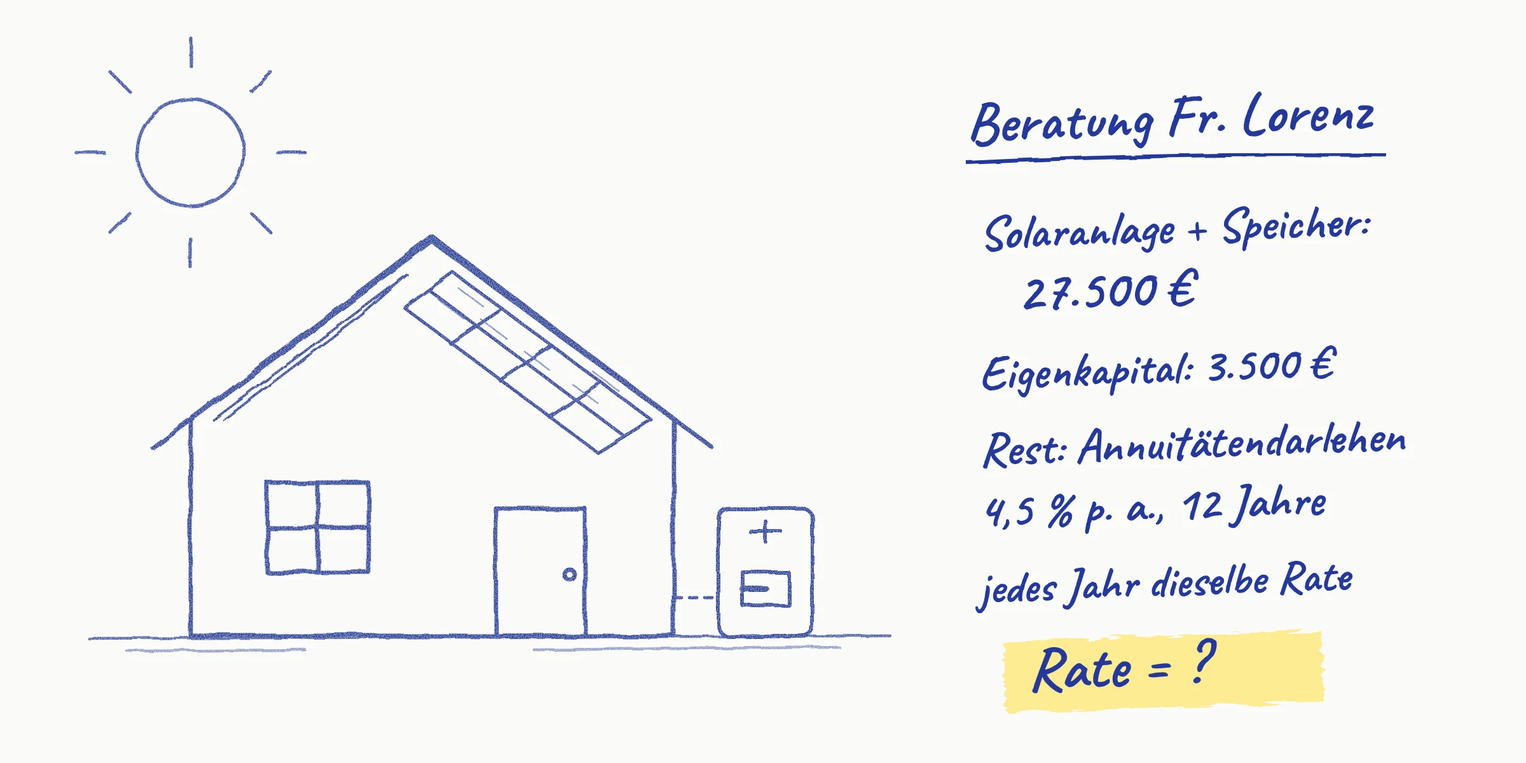
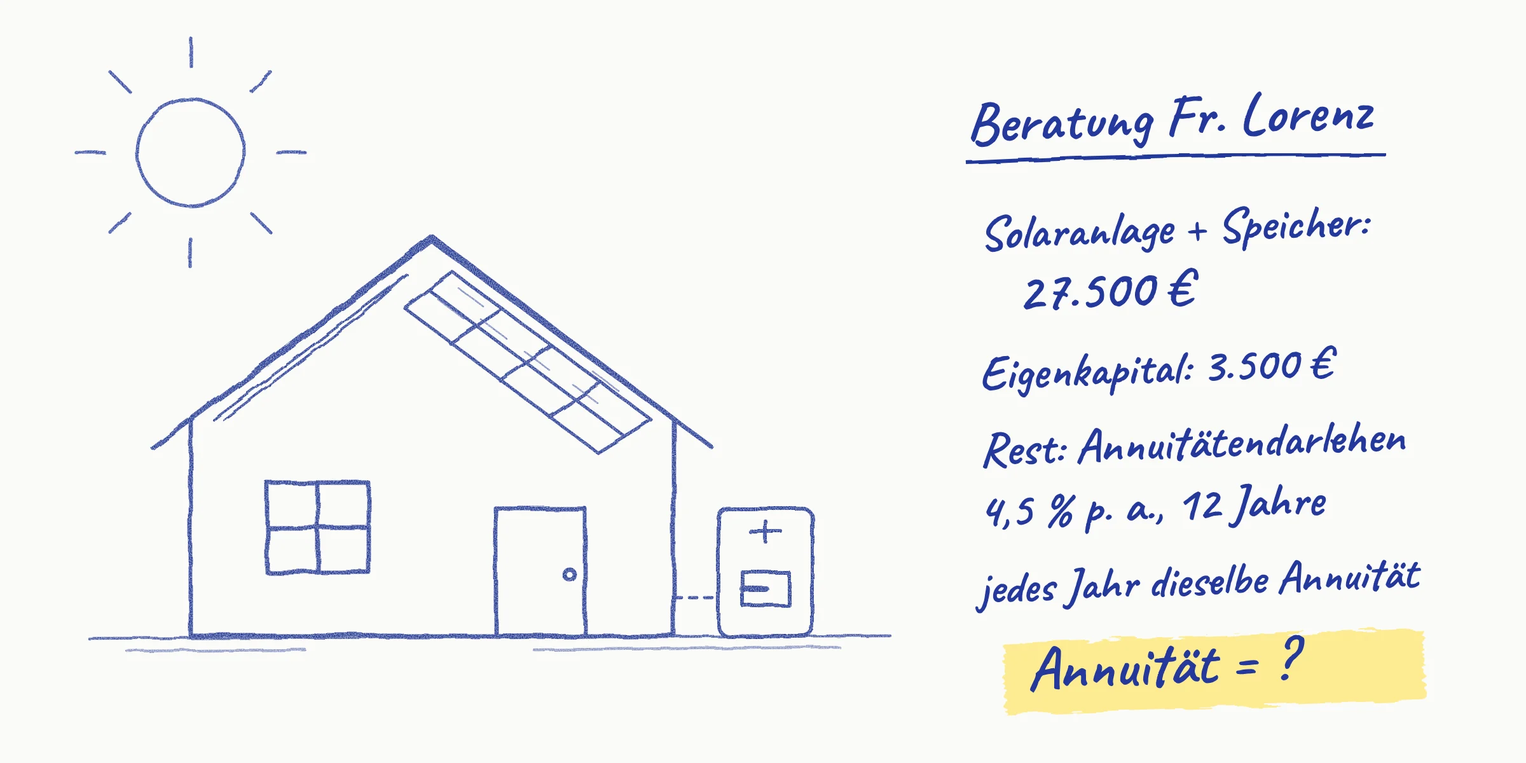
Solaranlage: Annuität statt Rate, Taschenrechner ohne gerundete Zwischenwerte
- Überall Annuität (Zinsen + Tilgung) statt Rate/Jahresrate, auch im Titelbild
- Warm-up d) und e): Terme in einem Zug eintippen, nur das Ergebnis runden
- Beispielrechnung: Hinweis, die Potenz nicht zu runden
- Skill: beide Regeln als Schreib- und Rechenkonvention festgehalten

Claude-Session: https://claude.ai/code/session_01Aw7YPBHYM1ggYfimyLqB6H

Changed region(s): [[0.6562, 0.8017, 0.9375, 0.9558], [0.8438, 0.74, 0.9375, 0.7708]]

diff --git a/mathe-trainer/src/pages/finanzmathe/annuitaetendarlehen_einstieg/SolaranlageEinstieg.tsx b/mathe-trainer/src/pages/finanzmathe/annuitaetendarlehen_einstieg/SolaranlageEinstieg.tsx
@@ -43,13 +43,15 @@ import './solaranlage.css'
 // T₂, T₃ … verwenden (statt T_v = T₁ · q^(v−1)), Zinsen nicht über die Schuld am Jahresanfang bzw. über Z = A − T bestimmen können.
 // Problem erkennen: Festlegung (Tilgt Frau Lorenz im 2. Jahr gleich viel, weniger oder mehr?), dann im Darlehensrechner der Bank zuerst den
 // Darlehensbetrag, dann Jahresraten ausprobieren (Live-Diagramm der Restschuld). Der Nachbar rechnet wie beim Ratendarlehen
-// 24.000 : 12 + 1.080 = 3.080 €: Damit wäre das Darlehen schon im 10. Jahr abbezahlt. Raten trifft die Annuität nicht auf den Cent.
+// 24.000 : 12 + 1.080 = 3.080 €: Damit wäre das Darlehen schon im 10. Jahr abbezahlt. Probieren trifft die Annuität nicht auf den Cent.
 // Problem lösen in zwei Teilen: Teil 1 die 1. Zeile (K₀, A, T₁, Z₁), Teil 2 die 2. Zeile (Schuld, T₂ = T₁ · q, Z₂ auf zwei Wegen, A),
 // je Beispielrechnung (Wärmepumpe von Herrn Brandt, 18.000 €, 4 %, 10 Jahre) mit Lernvideo → Ergebnisse im Tilgungsplan abgleichen.
-// Aha: Die Rate bleibt gleich, die Tilgung steigt (1.551,99 € → 1.621,83 €), weil die Zinsen sinken. Mit der T₁-Formel käme 1.451,63 € heraus.
+// Aha: Die Annuität bleibt gleich, die Tilgung steigt (1.551,99 € → 1.621,83 €), weil die Zinsen sinken. Mit der T₁-Formel käme 1.451,63 € heraus.
 // Lernprodukt analog: Beratungsblatt für Frau Lorenz (K₀, Tilgungsplan für 2 Jahre, Formeln, Antwort).
 // Phase 4: Annuität eines Autokredits (K₀ erkennen), Wer hat recht? (T₁-Formel für T₂), Zinsen auf zwei Wegen (Lückenrechnung),
 // 5. Jahr für Frau Lorenz (T₅ = T₁ · q⁴), Profi Zinsen insgesamt. Bonus-Spiel „Schuldenberg“.
+// Begriffe: Annuität = jährliche Zahlung aus Zinsen + Tilgung (nie „Rate“ dafür, Rate bzw. Tilgungsrate meint nur die Tilgung).
+// Taschenrechner: Potenzen und Brüche werden in einem Zug eingetippt, gerundet wird nur das Endergebnis (keine gerundeten Zwischenwerte wie q^n).
 // Punkte nach Aufwand: Warm-up 2/3/4/2/3 = 14, Festlegung 3, Ausprobieren 3, Teil 1: 12, Teil 2: 12, Antwort 3, Beratungsblatt 5,
 // Übungen 4/5/6/8, Profi 9. Pflicht zusammen 75: Warm-up 14 = 19 %, Problem lösen 32 = 43 %, Übungen 23 = 31 %;
 // Bonus-Spiel 4 Runden à 2 = 8 wie die beste Übung.
@@ -67,7 +69,7 @@ const THEMA: Thema = {
       src={titelBild}
       width={1200}
       height={600}
-      alt="Kugelschreiber-Skizze eines Hauses mit Solaranlage auf dem Dach und einem Stromspeicher. Daneben Notizen aus der Beratung von Frau Lorenz: Solaranlage und Speicher 27.500 €, Eigenkapital 3.500 €, Rest als Annuitätendarlehen mit 4,5 % p. a. und 12 Jahren, jedes Jahr dieselbe Rate. Mit Textmarker: Rate = ?"
+      alt="Kugelschreiber-Skizze eines Hauses mit Solaranlage auf dem Dach und einem Stromspeicher. Daneben Notizen aus der Beratung von Frau Lorenz: Solaranlage und Speicher 27.500 €, Eigenkapital 3.500 €, Rest als Annuitätendarlehen mit 4,5 % p. a. und 12 Jahren, jedes Jahr dieselbe Annuität. Mit Textmarker: Annuität = ?"
     />
   ),
 }
@@ -256,7 +258,7 @@ function TilgungsplanCheck({
 
 type Wahl = 'gleich' | 'weniger' | 'mehr'
 const WAHL: Record<Wahl, string> = {
-  gleich: 'Genauso viel wie im 1. Jahr. Die Rate ist ja jedes Jahr gleich.',
+  gleich: 'Genauso viel wie im 1. Jahr. Die Annuität ist ja jedes Jahr gleich.',
   weniger: 'Weniger als im 1. Jahr.',
   mehr: 'Mehr als im 1. Jahr.',
 }
@@ -275,7 +277,7 @@ function Festlegung({ wahl, fest, onWahl, onFest }: { wahl: Wahl | null; fest: b
   return (
     <div className="sa-wahl" data-no-autocheck>
       <p className="sl-text">
-        Frau Lorenz zahlt jedes Jahr dieselbe Rate. Wie viel tilgt sie im 2. Jahr, verglichen mit dem 1. Jahr?
+        Frau Lorenz zahlt jedes Jahr dieselbe Annuität, also denselben Betrag aus Zinsen und Tilgung. Wie viel tilgt sie im 2. Jahr, verglichen mit dem 1. Jahr?
       </p>
       <div className="ls-options" role="radiogroup" aria-label="Deine Vermutung">
         {(Object.keys(WAHL) as Wahl[]).map((w) => (
@@ -302,12 +304,12 @@ function Festlegung({ wahl, fest, onWahl, onFest }: { wahl: Wahl | null; fest: b
   )
 }
 
-/** Schuld am Ende jedes Jahres bei einer jährlichen Rate (Schuld · q − Rate) */
-const verlauf = (rate: number) => {
+/** Schuld am Ende jedes Jahres bei einer Annuität (Schuld · q − Annuität) */
+const verlauf = (annuitaet: number) => {
   const werte = [K0]
   let k = K0
   for (let v = 1; v <= N; v++) {
-    k = k * Q - rate
+    k = k * Q - annuitaet
     werte.push(k)
   }
   return werte
@@ -330,8 +332,8 @@ function SchuldDiagramm({ raten }: { raten: number[] }) {
         role="img"
         aria-label={
           werte && rest !== null
-            ? `Schuld am Ende jedes Jahres bei einer Rate von ${euro(aktuell)}: Start 24.000 €, nach 12 Jahren ${rest > 0 ? `noch ${euro(rest)}` : 'nichts mehr'}.`
-            : 'Diagramm der Schuld über 12 Jahre, noch ohne Rate. Start: 24.000 €.'
+            ? `Schuld am Ende jedes Jahres bei einer Annuität von ${euro(aktuell)}: Start 24.000 €, nach 12 Jahren ${rest > 0 ? `noch ${euro(rest)}` : 'nichts mehr'}.`
+            : 'Diagramm der Schuld über 12 Jahre, noch ohne Annuität. Start: 24.000 €.'
         }
       >
         {[0, 5000, 10000, 15000, 20000, 25000].map((k) => (
@@ -427,8 +429,8 @@ function Darlehensrechner({ frei, onFertig }: { frei: boolean; onFertig: () => v
 
   const senden = () => {
     const p = parseInput(eingabe)
-    if (!p) return setMeldung('Gib eine Rate in Euro ein, z. B. 2500.')
-    if (p.value < 500 || p.value > 10000) return setMeldung('Probiere eine Rate zwischen 500 € und 10.000 €.')
+    if (!p) return setMeldung('Gib eine Annuität in Euro ein, z. B. 2500.')
+    if (p.value < 500 || p.value > 10000) return setMeldung('Probiere eine Annuität zwischen 500 € und 10.000 €.')
     setMeldung(null)
     setRaten((r) => [...r, p.value])
   }
@@ -483,12 +485,12 @@ function Darlehensrechner({ frei, onFertig }: { frei: boolean; onFertig: () => v
           {kOk && (
             <>
               <p className="sl-text">
-                Richtig: Die Bank leiht Frau Lorenz <strong>24.000 €</strong>. Jetzt probierst du Jahresraten aus. Der Rechner zeigt dir, wie viel Schuld am Ende
+                Richtig: Die Bank leiht Frau Lorenz <strong>24.000 €</strong>. Jetzt probierst du verschiedene Annuitäten aus. Der Rechner zeigt dir, wie viel Schuld am Ende
                 jedes Jahres übrig bleibt. Nach 12 Jahren soll die Schuld genau 0 € sein.
               </p>
               <SchuldDiagramm raten={raten} />
               <div className="sa-eingabe">
-                <label htmlFor={`${uid}-r`}>Jährliche Rate:</label>
+                <label htmlFor={`${uid}-r`}>Annuität pro Jahr:</label>
                 <span className="sa-eingabe-feld">
                   <input
                     id={`${uid}-r`}
@@ -518,14 +520,14 @@ function Darlehensrechner({ frei, onFertig }: { frei: boolean; onFertig: () => v
                 <div className={`sa-anzeige${Math.abs(rest) <= 5 ? ' sa-anzeige-ok' : ''}`} role="status">
                   <i className="fa-solid fa-calculator" aria-hidden="true" />
                   <span>
-                    <strong>Versuch {raten.length}:</strong> Rate {euro(letzte)}.{' '}
+                    <strong>Versuch {raten.length}:</strong> Annuität {euro(letzte)}.{' '}
                     {Math.abs(rest) <= 5
                       ? `Sehr nah dran! Nach 12 Jahren bleibt fast nichts übrig (${rest >= 0 ? `${euro(rest)} Rest` : `${euro(-rest)} zu viel bezahlt`}).`
                       : letzte <= Z1
-                        ? 'Die Rate reicht nicht einmal für die Zinsen des 1. Jahres. Die Schuld wird jedes Jahr größer.'
+                        ? 'Diese Annuität reicht nicht einmal für die Zinsen des 1. Jahres. Es bleibt nichts für die Tilgung, die Schuld wird jedes Jahr größer.'
                         : rest > 0
-                          ? `Nach 12 Jahren hat Frau Lorenz noch ${euro(rest)} Schulden. Die Rate ist zu niedrig.`
-                          : `Schon im ${fertigJahr}. Jahr ist alles abbezahlt. Mit dieser Rate zahlt Frau Lorenz mehr als nötig.`}
+                          ? `Nach 12 Jahren hat Frau Lorenz noch ${euro(rest)} Schulden. Die Annuität ist zu niedrig.`
+                          : `Schon im ${fertigJahr}. Jahr ist alles abbezahlt. Mit dieser Annuität zahlt Frau Lorenz mehr als nötig.`}
                   </span>
                 </div>
               )}
@@ -547,7 +549,7 @@ function Erkenntnis() {
   return (
     <p className="sl-text sa-erkenntnis" role="status">
       <strong>Schon gemerkt?</strong> Mit der Rechnung des Nachbarn (<M>{'24\\,000 : 12 + 1\\,080 = 3\\,080'}</M> €) wäre Frau Lorenz schon im 10. Jahr fertig: Sie
-      würde zu viel bezahlen. So rechnet man beim Ratendarlehen, bei dem die Raten jedes Jahr kleiner werden. Durch Probieren kommst du der richtigen Rate zwar näher,
+      würde zu viel bezahlen. So rechnet man beim Ratendarlehen, bei dem die Tilgung jedes Jahr gleich bleibt und die Annuität sinkt. Durch Probieren kommst du der richtigen Annuität zwar näher,
       aber auf den Cent genau triffst du sie kaum. Auf der nächsten Seite lernst du die Formeln, mit denen die Bank die Annuität, die Tilgung und die Zinsen berechnet.
     </p>
   )
@@ -592,11 +594,11 @@ const BSP1_SCHRITTE: { title: ReactNode; body: ReactNode }[] = [
     title: <>Die Annuität <M>A</M> mit der Formel aus der Merkhilfe</>,
     body: (
       <>
-        <p>Die Annuität ist die Jahresrate. Sie ist in allen 10 Jahren gleich hoch.</p>
+        <p>Die Annuität ist der Betrag, den Herr Brandt jedes Jahr an die Bank zahlt: Zinsen plus Tilgung. Sie ist in allen 10 Jahren gleich hoch.</p>
         <MB>{'A = K_0 \\cdot \\dfrac{q^n \\cdot (q - 1)}{q^n - 1}'}</MB>
         <MB>{'A = 18\\,000 \\cdot \\dfrac{1{,}04^{10} \\cdot (1{,}04 - 1)}{1{,}04^{10} - 1}'}</MB>
         <MB>{'A = 2\\,219{,}24 \\text{ €}'}</MB>
-        <p>Tipp für den Taschenrechner: Zähler und Nenner jeweils in Klammern eingeben.</p>
+        <p>Tipp für den Taschenrechner: Zähler und Nenner jeweils in Klammern eingeben und alles in einem Zug rechnen. Runde nur das Ergebnis auf Cent, nie die Potenz.</p>
       </>
     ),
   },
@@ -783,7 +785,7 @@ export default function SolaranlageEinstieg({ onBack, onPractice }: { onBack: ()
             prompt={
               <p>
                 Bei einem Ratendarlehen ist die Schuld am Anfang des Jahres 20.000 €. In diesem Jahr werden 2.500 € getilgt, der Zinssatz beträgt 4 % p.a. Berechne
-                die Zinsen, die Jahresrate (Annuität) und die Schuld am Anfang des nächsten Jahres.
+                die Zinsen, die Annuität (Zinsen + Tilgung) und die Schuld am Anfang des nächsten Jahres.
               </p>
             }
             rechnung={[
@@ -808,7 +810,7 @@ export default function SolaranlageEinstieg({ onBack, onPractice }: { onBack: ()
             help={
               <Hilfen
                 steps={[
-                  <>Eine Jahresrate besteht aus zwei Teilen: Zinsen und Tilgung.</>,
+                  <>Die Annuität besteht aus zwei Teilen: Zinsen und Tilgung.</>,
                   <>Die Zinsen rechnest du für die Schuld am Jahresanfang. Von der Schuld ziehst du nur die Tilgung ab, nicht die Zinsen.</>,
                   <>
                     <M>{'Z = 20\\,000 \\cdot 0{,}04'}</M>, dann <M>{'A = 2\\,500 + Z'}</M>.
@@ -820,25 +822,19 @@ export default function SolaranlageEinstieg({ onBack, onPractice }: { onBack: ()
           <CheckCard
             onSolved={fertig.teil('d')}
             punkte={2}
-            title="d) Potenz mit dem Taschenrechner"
-            prompt={<p>Berechne mit dem Taschenrechner und runde auf 4 Nachkommastellen.</p>}
-            rechnung={[
-              { l: ['1{,}045^{12}'], r: [{ luecke: 'p1' }] },
-              { l: ['1{,}04^{10}'], r: [{ luecke: 'p2' }] },
-            ]}
-            fields={[
-              { kind: 'num', key: 'p1', label: '1,045 hoch 12', expected: 1.045 ** 12, tol: 0.0001 },
-              { kind: 'num', key: 'p2', label: '1,04 hoch 10', expected: 1.04 ** 10, tol: 0.0001 },
-            ]}
+            title="d) Potenz in einem Zug"
+            prompt={
+              <p>
+                10.000 € liegen 5 Jahre lang zu 3 % p.a. auf einem Konto, die Zinsen werden mitverzinst. Berechne den Kontostand mit dem Taschenrechner in einem Zug.
+                Runde nur das Ergebnis auf Cent.
+              </p>
+            }
+            rechnung={[{ l: ['K_5 = 10\\,000 \\cdot 1{,}03^5'], r: [{ luecke: 'k5', breit: true }] }]}
+            fields={[{ kind: 'num', key: 'k5', label: 'Kontostand nach 5 Jahren in Euro', expected: 10000 * 1.03 ** 5, tol: 0.01 }]}
             solution={
               <>
-                <Loesungsweg
-                  schritte={[
-                    { titel: 'Erste Potenz', tex: '1{,}045^{12} \\approx 1{,}6959' },
-                    { titel: 'Zweite Potenz', tex: '1{,}04^{10} \\approx 1{,}4802' },
-                  ]}
-                />
-                <p>Am Taschenrechner: Basis eingeben, dann die Potenztaste (z. B. ^ oder xʸ), dann den Exponenten.</p>
+                <Loesungsweg schritte={[{ titel: 'In einem Zug eintippen', tex: 'K_5 = 10\\,000 \\cdot 1{,}03^5 = 11\\,592{,}74 \\text{ €}' }]} />
+                <p>Am Taschenrechner: 10000 × 1,03, dann die Potenztaste (z. B. ^ oder xʸ) und 5. Nicht zuerst die Potenz runden, sonst entstehen Rundungsfehler.</p>
               </>
             }
           />
@@ -846,20 +842,29 @@ export default function SolaranlageEinstieg({ onBack, onPractice }: { onBack: ()
             onSolved={fertig.teil('e')}
             punkte={3}
             title="e) Bruch mit Klammern"
-            prompt={<p>Berechne mit dem Taschenrechner. Achte darauf, Zähler und Nenner jeweils in Klammern einzugeben.</p>}
+            prompt={
+              <p>
+                Berechne mit dem Taschenrechner in einem Zug. Setze Zähler und Nenner jeweils in Klammern und runde nur das Ergebnis (beim ersten Bruch ist es glatt,
+                beim zweiten auf Cent).
+              </p>
+            }
             rechnung={[
               { l: ['\\dfrac{1{,}2 \\cdot 0{,}05}{1{,}2 - 1}'], r: [{ luecke: 'b1' }] },
-              { l: ['\\dfrac{0{,}06}{1{,}5 - 1}'], r: [{ luecke: 'b2' }] },
+              { l: ['8\\,000 \\cdot \\dfrac{1{,}05^4 \\cdot 0{,}05}{1{,}05^4 - 1}'], r: [{ luecke: 'b2', breit: true }] },
             ]}
             fields={[
               { kind: 'num', key: 'b1', label: 'erster Bruch', expected: 0.3, tol: 0.0001 },
-              { kind: 'num', key: 'b2', label: 'zweiter Bruch', expected: 0.12, tol: 0.0001 },
+              { kind: 'num', key: 'b2', label: 'zweiter Term in Euro', expected: (8000 * 1.05 ** 4 * 0.05) / (1.05 ** 4 - 1), tol: 0.01 },
             ]}
             solution={
               <Loesungsweg
                 schritte={[
                   { titel: 'Erster Bruch: Zähler und Nenner einzeln', tex: ['\\dfrac{1{,}2 \\cdot 0{,}05}{1{,}2 - 1} = \\dfrac{0{,}06}{0{,}2}', '= 0{,}3'] },
-                  { titel: 'Zweiter Bruch', tex: ['\\dfrac{0{,}06}{1{,}5 - 1} = \\dfrac{0{,}06}{0{,}5}', '= 0{,}12'] },
+                  {
+                    titel: 'Zweiter Term in einem Zug',
+                    text: <p>Eingabe zum Beispiel: 8000 × (1,05^4 × 0,05) ÷ (1,05^4 − 1). Die Potenz wird nicht gerundet.</p>,
+                    tex: '8\\,000 \\cdot \\dfrac{1{,}05^4 \\cdot 0{,}05}{1{,}05^4 - 1} = 2\\,256{,}09',
+                  },
                 ]}
               />
             }
@@ -867,9 +872,9 @@ export default function SolaranlageEinstieg({ onBack, onPractice }: { onBack: ()
               <Hilfen
                 steps={[
                   <>Der Bruchstrich wirkt wie eine Klammer um Zähler und Nenner.</>,
-                  <>Rechne zuerst den Zähler aus, dann den Nenner, und teile danach.</>,
+                  <>Tippe den Zähler in Klammern ein, dann ÷, dann den Nenner in Klammern. Runde nichts zwischendurch.</>,
                   <>
-                    <M>{'1{,}2 \\cdot 0{,}05 = 0{,}06'}</M> und <M>{'1{,}2 - 1 = 0{,}2'}</M>, also <M>{'0{,}06 : 0{,}2'}</M>.
+                    Zweiter Term: <M>{'8\\,000 \\cdot (1{,}05^4 \\cdot 0{,}05) : (1{,}05^4 - 1)'}</M>
                   </>,
                 ]}
               />
@@ -880,9 +885,9 @@ export default function SolaranlageEinstieg({ onBack, onPractice }: { onBack: ()
     },
     {
       art: 'problem',
-      titel: 'Wie hoch ist die Rate für die Solaranlage?',
+      titel: 'Wie hoch ist die Annuität für die Solaranlage?',
       pflicht: ['fest', 'rechner'],
-      bedingung: 'Halte deine Vermutung fest und probiere im Darlehensrechner mindestens drei Raten aus.',
+      bedingung: 'Halte deine Vermutung fest und probiere im Darlehensrechner mindestens drei Annuitäten aus.',
       inhalt: (fertig) => (
         <>
           <p className="sl-text">
@@ -891,20 +896,20 @@ export default function SolaranlageEinstieg({ onBack, onPractice }: { onBack: ()
           </p>
           <p className="sl-text">
             Den Rest leiht ihr die Bank als <strong>Annuitätendarlehen</strong> mit <strong>4,5 % p.a.</strong> und einer Laufzeit von <strong>12 Jahren</strong>. Bei
-            einem Annuitätendarlehen zahlt man jedes Jahr dieselbe Rate, die <strong>Annuität</strong>. Sie besteht aus Zinsen und Tilgung. Gesucht ist die Höhe dieser
-            Rate.
+            einem Annuitätendarlehen zahlt man jedes Jahr denselben Betrag an die Bank, die <strong>Annuität</strong>. Sie besteht aus den Zinsen und der Tilgung (dem
+            Teil, der die Schuld verringert). Gesucht ist die Höhe der Annuität.
           </p>
           <Zitat wer="Frau Lorenz">
             <p>
-              „Mein Nachbar sagt: Schuld durch 12 Jahre, dann noch die Zinsen dazu, fertig. Stimmt das? Und tilge ich dann jedes Jahr gleich viel, wenn die Rate immer
-              gleich ist?“
+              „Mein Nachbar sagt: Schuld durch 12 Jahre, dann noch die Zinsen dazu, fertig. Stimmt das? Und tilge ich dann jedes Jahr gleich viel, wenn ich immer
+              denselben Betrag zahle?“
             </p>
           </Zitat>
           <div className="sl-fokus">
             <p className="sl-fokus-titel">Dein Auftrag: Erst vermuten, dann ausprobieren</p>
             <p>
               Lege dich zuerst fest: Tilgt Frau Lorenz im 2. Jahr gleich viel, weniger oder mehr? Probiere danach im Darlehensrechner der Bank aus, ohne Formel: Mit
-              welcher jährlichen Rate ist das Darlehen nach genau 12 Jahren abbezahlt? Probiere auch die Idee des Nachbarn aus.
+              welcher Annuität ist das Darlehen nach genau 12 Jahren abbezahlt? Probiere auch die Idee des Nachbarn aus.
             </p>
           </div>
           <figure className="sl-foto">
@@ -1053,7 +1058,7 @@ export default function SolaranlageEinstieg({ onBack, onPractice }: { onBack: ()
                   feedback: 'Gleich bleibt nur die Summe aus Zinsen und Tilgung. Schau in deinen Tilgungsplan: Die Zinsen werden kleiner.',
                 },
                 {
-                  text: 'Nein, sie tilgt mehr: im 1. Jahr 1.551,99 €, im 2. Jahr 1.621,83 €. Die Schuld wird kleiner, also auch die Zinsen. Der Rest der gleichen Rate geht in die Tilgung.',
+                  text: 'Nein, sie tilgt mehr: im 1. Jahr 1.551,99 €, im 2. Jahr 1.621,83 €. Die Schuld wird kleiner, also auch die Zinsen. Der Rest der gleichen Annuität geht in die Tilgung.',
                   correct: true,
                   feedback: (
                     <>
@@ -1097,7 +1102,7 @@ export default function SolaranlageEinstieg({ onBack, onPractice }: { onBack: ()
             <Aufklappbar label="Satzanfänge ansehen" icon="fa-comment-dots">
               <ul className="zk-liste">
                 <li>„Die Bank leiht Ihnen nicht 27.500 €, sondern nur …, weil …“</li>
-                <li>„Ihre Rate (Annuität) beträgt jedes Jahr …“</li>
+                <li>„Ihre Annuität (Zinsen + Tilgung) beträgt jedes Jahr …“</li>
                 <li>„Im 1. Jahr zahlen Sie davon … Zinsen und tilgen …, im 2. Jahr …“</li>
                 <li>„Die Rechnung Ihres Nachbarn passt nicht, weil …“</li>
                 <li>
@@ -1118,10 +1123,10 @@ export default function SolaranlageEinstieg({ onBack, onPractice }: { onBack: ()
                   Zu jedem Wert die Formel mit eingesetzten Zahlen: <M>A</M>, <M>{'T_1'}</M>, <M>{'T_2 = T_1 \\cdot q'}</M>, die Zinsen über die Schuld am Jahresanfang
                   oder mit <M>{'A - T'}</M>
                 </>,
-                'Eine Antwort an Frau Lorenz: Wie hoch ist die Rate, und warum steigt die Tilgung, obwohl die Rate gleich bleibt?',
+                'Eine Antwort an Frau Lorenz: Wie hoch ist die Annuität, und warum steigt die Tilgung, obwohl die Annuität gleich bleibt?',
                 <>
                   Unter deinem Beratungsblatt steht, wofür die Abkürzungen stehen: <M>{'K_0'}</M> (Darlehensbetrag, Schuld am Anfang des 1. Jahres), <M>A</M> (Annuität,
-                  jährliche Rate), <M>{'T_1'}</M> und <M>{'T_v'}</M> (Tilgung im 1. bzw. im <M>v</M>-ten Jahr), <M>Z</M> (Zinsen), <M>p</M> (Zinssatz), <M>q</M>{' '}
+                  jährliche Zahlung aus Zinsen und Tilgung), <M>{'T_1'}</M> und <M>{'T_v'}</M> (Tilgung im 1. bzw. im <M>v</M>-ten Jahr), <M>Z</M> (Zinsen), <M>p</M> (Zinssatz), <M>q</M>{' '}
                   (Zinsfaktor), <M>n</M> (Laufzeit in Jahren) und <M>v</M> (Nummer des Jahres). Außerdem erklärst du die Begriffe Annuitätendarlehen, Tilgung, Restschuld und
                   Eigenkapital und alle anderen Wörter, die für dich neu waren.
                 </>,
@@ -1381,15 +1386,15 @@ export default function SolaranlageEinstieg({ onBack, onPractice }: { onBack: ()
               }
               fieldsRow
               fields={[
-                { kind: 'num', key: 'alle', label: 'alle Raten zusammen:', expected: r2(N * A), unit: '€', tol: 0.1 },
+                { kind: 'num', key: 'alle', label: 'alle Annuitäten zusammen:', expected: r2(N * A), unit: '€', tol: 0.1 },
                 { kind: 'num', key: 'zges', label: 'Zinsen insgesamt:', expected: r2(N * A - K0), unit: '€', tol: 0.1 },
               ]}
               loesungNachFehler
               solution={
                 <Loesungsweg
                   schritte={[
-                    { titel: 'Alle Raten zusammen', tex: '12 \\cdot 2\\,631{,}99 = 31\\,583{,}88 \\text{ €}' },
-                    { titel: 'Zinsen = alle Raten minus Darlehen', tex: '31\\,583{,}88 - 24\\,000 = 7\\,583{,}88 \\text{ €}' },
+                    { titel: 'Alle Annuitäten zusammen', tex: '12 \\cdot 2\\,631{,}99 = 31\\,583{,}88 \\text{ €}' },
+                    { titel: 'Zinsen = alle Annuitäten minus Darlehen', tex: '31\\,583{,}88 - 24\\,000 = 7\\,583{,}88 \\text{ €}' },
                   ]}
                 />
               }
@@ -1397,7 +1402,7 @@ export default function SolaranlageEinstieg({ onBack, onPractice }: { onBack: ()
                 <Hilfen
                   steps={[
                     <>Frau Lorenz überweist 12-mal dieselbe Annuität. Was davon ist nicht Tilgung?</>,
-                    <>Alle Raten zusammen minus das geliehene Geld ergibt die Zinsen.</>,
+                    <>Alle Annuitäten zusammen minus das geliehene Geld ergibt die Zinsen.</>,
                     <>
                       <M>{'12 \\cdot 2\\,631{,}99'}</M>, davon ziehst du <M>{'24\\,000'}</M> ab.
                     </>,
@@ -1455,7 +1460,7 @@ function Rueckbezug({ wahl }: { wahl: Wahl | null }) {
     <div className="ls-back">
       <p>
         <strong>Du hattest vermutet:</strong> {WAHL[wahl]}{' '}
-        {wahl === 'mehr' ? 'Das stimmt!' : 'Tatsächlich tilgt Frau Lorenz mehr.'} Im 1. Jahr tilgt sie {euro(T1)}, im 2. Jahr {euro(T2)}. Die Rate bleibt gleich, aber
+        {wahl === 'mehr' ? 'Das stimmt!' : 'Tatsächlich tilgt Frau Lorenz mehr.'} Im 1. Jahr tilgt sie {euro(T1)}, im 2. Jahr {euro(T2)}. Die Annuität bleibt gleich, aber
         die Zinsen sinken von {euro(Z1)} auf {euro(Z2)}, weil die Schuld kleiner geworden ist. Mit der Formel für <M>{'T_1'}</M> und der neuen Schuld käme fälschlich{' '}
         {euro(T2_FALSCH)} heraus. Und die Rechnung des Nachbarn ({euro(NACHBAR)}) war zu hoch: Die richtige Annuität ist {euro(A)}.
       </p>

diff --git a/mathe-trainer/src/pages/finanzmathe/annuitaetendarlehen_einstieg/bilder-quelle/titel.bild.html b/mathe-trainer/src/pages/finanzmathe/annuitaetendarlehen_einstieg/bilder-quelle/titel.bild.html
@@ -64,10 +64,10 @@
   <text x="770" y="306" font-size="38" transform="rotate(-2 770 306)">Eigenkapital: 3.500 €</text>
   <text x="770" y="366" font-size="38" transform="rotate(-2 770 366)">Rest: Annuitätendarlehen</text>
   <text x="770" y="414" font-size="38" transform="rotate(-2 770 414)">4,5 % p. a., 12 Jahre</text>
-  <text x="770" y="474" font-size="36" transform="rotate(-2 770 474)">jedes Jahr dieselbe Rate</text>
+  <text x="770" y="474" font-size="36" transform="rotate(-2 770 474)">jedes Jahr dieselbe Annuität</text>
  </g>
  <!-- Textmarker und Frage -->
- <rect x="790" y="500" width="250" height="56" fill="#ffe14d" opacity=".6" filter="url(#marker)" transform="rotate(-2 915 528)"/>
- <text x="808" y="542" font-family="Caveat" font-weight="700" font-size="48" fill="#24389c" transform="rotate(-2 808 542)">Rate = ?</text>
+ <rect x="790" y="500" width="330" height="56" fill="#ffe14d" opacity=".6" filter="url(#marker)" transform="rotate(-2 955 528)"/>
+ <text x="808" y="542" font-family="Caveat" font-weight="700" font-size="48" fill="#24389c" transform="rotate(-2 808 542)">Annuität = ?</text>
 </svg>
 </body></html>

diff --git a/mathe-trainer/src/pages/finanzmathe/annuitaetendarlehen_einstieg/bilder-quelle/block.bild.html b/mathe-trainer/src/pages/finanzmathe/annuitaetendarlehen_einstieg/bilder-quelle/block.bild.html
@@ -28,7 +28,7 @@
   <text x="110" y="466" font-size="40">Laufzeit: 12 Jahre</text>
   <text x="110" y="522" font-size="40">Rückzahlung: jedes Jahr gleich viel</text>
  </g>
- <!-- Skizze: eine Jahresrate aus Zinsen und Tilgung -->
+ <!-- Skizze: die Annuität des 1. Jahres aus Zinsen und Tilgung -->
  <g stroke="#1f3290" stroke-width="3" fill="none" stroke-linejoin="round" filter="url(#kuli)">
   <g filter="url(#wobble)">
    <rect x="760" y="170" width="170" height="330"/>

diff --git a/mathe-trainer/docs/skills/lernsituationen/SKILL.md b/mathe-trainer/docs/skills/lernsituationen/SKILL.md
@@ -237,6 +237,8 @@ Ganz am Ende jeder Lernsituation wird ein kleines **mathematisches Spiel** freig
 - **KaTeX für alles Mathematische**, auch im Fließtext, in Titeln, Hilfen und Rückmeldungen: Punkte `S(2 \mid 3)`, Variablen `a`, Gleichungen, Zahlen mit Rechenzeichen. Keine Formeln als Klartext ("x²", "(2|3)", "x_S"). Dezimalkomma als `0{,}25`, echtes Minus.
 - **Funktionsschreibweise:** Funktionsgleichungen immer mit `y = …`, nicht `f(x) = …`. Bei mehreren Funktionen steht der Name im Text davor ("Gerade 1: y = …", "Sprungbahn: y = …"). Funktionswerte als "x einsetzen": "x = 4: y = −0,25 · 4² + 4 + 2 = 2" statt f(4). In Feldern "y =", in Tabellenköpfen "y". Gleichsetzen heißt "die Terme gleichsetzen".
 - **Scheitelform** als `y = a(x − x_S)² + y_S` (nicht mit d und e).
+- **Begriffe in der Finanzmathematik trennscharf (seit 2026-11-05):** Die **Annuität** ist immer die jährliche Zahlung aus Zinsen **und** Tilgung. Das Wort „Rate“ (bzw. „Tilgungsrate“) meint nur die Tilgung; für die Annuität wird es nie verwendet, auch nicht als „Jahresrate“ oder „gleiche Rate“ (Ausnahme: der Begriff „Ratendarlehen“ und die Rate bzw. Rente in der Rentenrechnung). Beim ersten Auftreten wird die Annuität kurz erklärt („denselben Betrag an die Bank, die Annuität: Zinsen plus Tilgung“).
+- **Taschenrechner ohne gerundete Zwischenwerte (seit 2026-11-05):** Potenzen wie `q^n` und Brüche werden in einem Zug in den Taschenrechner eingegeben, gerundet wird nur das Endergebnis (meist auf Cent). Keine Aufgaben „Berechne 1,045¹² und runde auf 4 Nachkommastellen“ und keine gerundeten Zwischenwerte in Beispielrechnungen und Lösungswegen. Warm-up-Aufgaben üben stattdessen das Eintippen ganzer Terme (z. B. `8 000 · (1,05⁴ · 0,05) : (1,05⁴ − 1)`).
 - **Rechnen im Heft:** Alles, was gerechnet wird, rechnen die SuS von Hand im Heft, das Tablet dient zur Kontrolle. Das bestätigen sie **einmal** in der Startbox. Deshalb steht an den einzelnen Aufgaben **kein** Heft-Hinweis ("Im Heft: Rechenweg und Ergebnis aufschreiben …"): `SeitenLernsituation` blendet ihn über `HeftBestaetigtCtx` automatisch aus. Schreibe auch keine eigenen Sätze wie "Halte deinen Rechenweg schriftlich fest" oder "Rechne im Heft" in die Aufgaben.
 - **Lücken direkt in der Gleichung:** Werte, die die SuS in eine Gleichung einsetzen oder ergänzen, tragen sie im Kästchen **in der Gleichung** ein, nicht in einem Feld daneben oder darunter (kein `\square` mit Feld daneben). Dafür `CheckCard` mit `rechnung`: Zeilen `{ l: [...], r: [...], u?: '\\mid -3' }` aus TeX-Stücken und Lücken `{ luecke: 'feldKey' }`. Das Layout (Gleichheitszeichen untereinander, „=“ und Lücke in einer Zeile) kommt komplett aus `lernsituation_kit/kit.css` (`.ls-rechnung`); keine eigenen Grid- oder Flex-Regeln für `.ls-rechnung*` schreiben. Im Kit gilt: alle Spalten `auto` mit `justify-content: start`, **keine `1fr`-Spalte** (daneben schrumpft die rechte Seite auf die Breite des Eingabefelds und das „=“ rutscht über die Lücke).
 - **Wertetabellen vervollständigen statt Antwortfeld darunter:** Sollen die SuS zu einer Tabelle y-Werte (oder x-Werte) bestimmen, wird die **Tabelle selbst fortgesetzt**: Die gefragten x-Werte stehen als weitere Spalten in der Tabelle, die Lücken liegen in den Zellen (kein Satz „Zu 5 gehört y = [ ]“ unter der Tabelle). Dafür `CheckCard` mit `wertetabelle={{ x: ['1', '2', '5', '-3'], y: ['4', '8', { luecke: 'y5' }, { luecke: 'ym3' }] }}` (Zellen als TeX oder Lücke, optional `kopf: ['x', 'y']`). Mindestens ein gefragter Wert ist **negativ** (z. B. x = −3), damit die SuS die Regel auch über die Vorzeichen hinweg anwenden.
